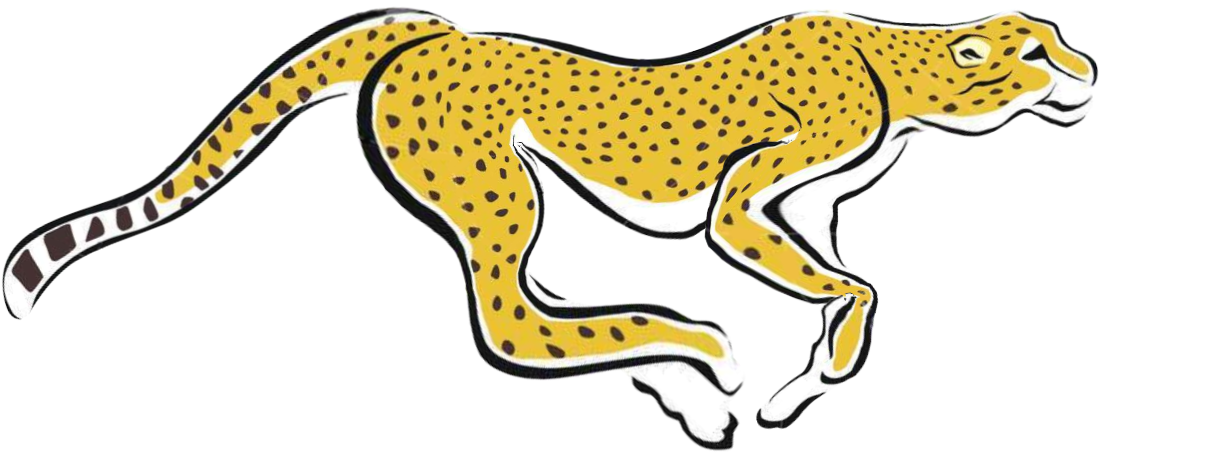
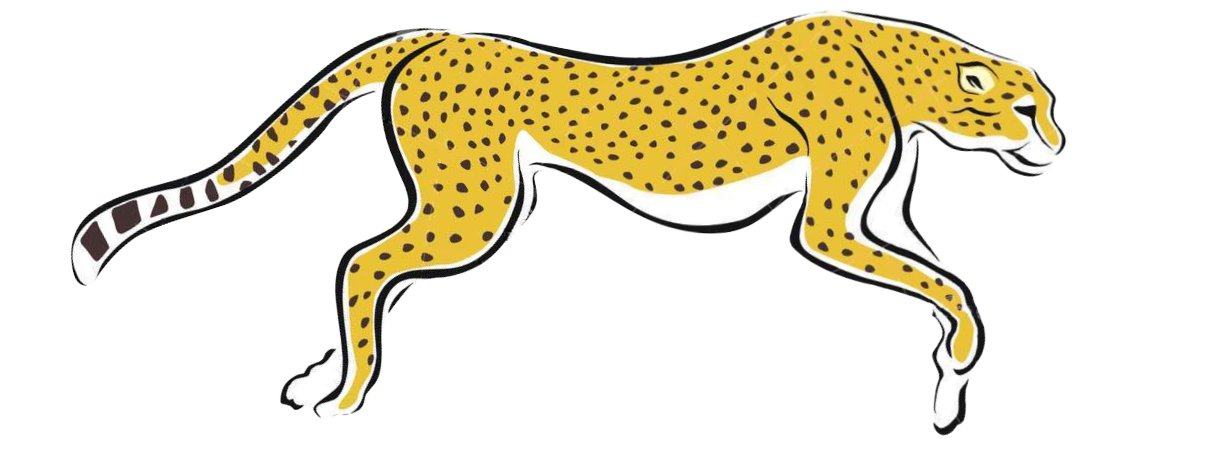
Constant animation
with rotating background and running cheetah in foreground

Changed region(s): [[0.0, 0.0, 0.9189, 1.0]]

diff --git a/src/main/webapp/js/script.js b/src/main/webapp/js/script.js
@@ -1,8 +1,8 @@
-Cheetah = function(name, imageSources) {
-  this.name = name;
+Cheetah = function(imageSources) {
   this.image = new Image();
   this.imagePos = 0;
   this.image.src = imageSources[this.imagePos];
+  this.imageSources = imageSources;
   this.stepSize = 100;
   this.height = 250;  // Cheetah size
   this.width = this.image.width / this.image.height * this.height
@@ -11,7 +11,11 @@ Cheetah = function(name, imageSources) {
   this.distance = this.posX;
   this.lastkey;
 
-  this.run = function(evt) {
+  window.onkeypress = this.run.bind(this);
+}
+
+Cheetah.prototype = {
+  run : function(evt) {
     // Move Cheetah on screen
     if (this.posX + this.stepSize <= CONSTANT_RUN || this.distance >= FINAL_SPURT) {
       this.posX += this.stepSize;
@@ -22,20 +26,18 @@ Cheetah = function(name, imageSources) {
     this.lastkey = evt.key;
 
     // Rotate images
-    if (this.imagePos < imageSources.length - 1) {
+    if (this.imagePos < this.imageSources.length - 1) {
       this.imagePos += 1;
     } else {
       this.imagePos = 0;
     }
-    this.image.src = imageSources[this.imagePos];
+    this.image.src = this.imageSources[this.imagePos];
 
     // End the game
     if (this.posX + this.width > CANVAS_WIDTH) {
       stopGame();
     }
   }
-
-  window.onkeypress = this.run.bind(this);
 }
 
 Canvas = function(canvasElement, bgImage, cheetah) {
@@ -47,15 +49,19 @@ Canvas = function(canvasElement, bgImage, cheetah) {
   this.height = this.elem.height;
   this.cheetah = cheetah;
 
-  this.bubble = function() {
+  window.focus();
+}
+
+Canvas.prototype = {
+  bubble: function(text) {
     this.ctx.font = "30pt Arial";
     this.ctx.fillStyle = "#f7f7f4";
 //    if (cheetah.lastkey)
 //      this.ctx.fillText(cheetah.lastkey, this.cheetah.posX + 30, this.cheetah.posY - 30);
-    this.ctx.fillText(cheetah.posX + " " + cheetah.distance, this.cheetah.posX + 30, this.cheetah.posY - 30);
-  }
+    this.ctx.fillText(text, this.cheetah.posX + 30, this.cheetah.posY - 30);
+  },
 
-  this.draw = function() {
+  draw: function() {
     this.ctx.clearRect(0, 0, this.width, this.height); // Clear Canvas
 
     if (this.cheetah.distance < CONSTANT_RUN) {
@@ -66,24 +72,78 @@ Canvas = function(canvasElement, bgImage, cheetah) {
       this.ctx.drawImage(this.background, this.background.width - this.width - CONSTANT_RUN, 0, this.width, this.height, 0, 0, this.width, this.height)
     }
 
-    this.bubble();
+    this.bubble(cheetah.posX + " " + cheetah.distance);
     this.ctx.drawImage(this.cheetah.image, this.cheetah.posX, this.cheetah.posY, this.cheetah.width, this.cheetah.height);
   }
+}
 
-  window.focus();
-  this.animate = setInterval(this.draw.bind(this), 30);
+RunningCheetah = function(imageSources) {
+  Cheetah.call(this, imageSources);
+  this.posX = 400;
+}
+
+RunningCheetah.prototype = Object.create(Cheetah.prototype);
+RunningCheetah.prototype.run = function() {
+  // Rotate images
+  if (this.imagePos < this.imageSources.length - 1) {
+    this.imagePos += 1;
+  } else {
+    this.imagePos = 0;
+  }
+  this.image.src = this.imageSources[this.imagePos];
+}
+
+
+RotatingCanvas = function(canvasElement, bgImage, cheetah) {
+  Canvas.call(this, canvasElement, bgImage, cheetah);
+  this.imageX = 0;
+  this.stepSize = 10;
+}
+
+RotatingCanvas.prototype = Object.create(Canvas.prototype);
+RotatingCanvas.prototype.draw = function() {
+    this.ctx.clearRect(0, 0, this.width, this.height); // Clear Canvas
+
+
+    var rightMargin = this.width - (this.background.width - this.imageX);
+
+    this.ctx.drawImage(this.background,
+                       this.imageX, 0, this.width, this.height, // image coordinates
+                       0, 0, this.width, this.height);  // canvas coordinates
+
+    if (rightMargin > 0) {
+      this.ctx.drawImage(this.background,
+              0, 0, rightMargin, this.height, // image coordinates
+              this.width - rightMargin, 0, rightMargin, this.height);
+    }
+
+    this.imageX = this.imageX < this.background.width ? this.imageX + this.stepSize : 0;
+
+
+    this.ctx.drawImage(this.cheetah.image, this.cheetah.posX, this.cheetah.posY, this.cheetah.width, this.cheetah.height);
+    this.bubble(this.imageX + " " + rightMargin);
+}
+
+
+cheetah = new RunningCheetah(["images/cheetah_run01.png", "images/cheetah_run02.png",
+                       "images/cheetah_run03.png", "images/cheetah_run02.png"]);
+canvas = new RotatingCanvas("cheetah-track", "images/steppe_v2.png", cheetah);
+
+var startGame = function(cheetahSpeed, canvasSpeed) {
+  cheetah.animate = setInterval(cheetah.run.bind(cheetah), cheetahSpeed);
+  canvas.animate = setInterval(canvas.draw.bind(canvas), canvasSpeed);
 }
 
 var stopGame = function() {
   window.onkeypress = null;
   clearInterval(canvas.animate);
+  clearInterval(cheetah.animate); // Compatibility issue with Cheetah
 }
 
-
-cheetah = new Cheetah("Gepardec", ["images/cheetah_run01.png", "images/cheetah_run02.png"]);
-canvas = new Canvas("cheetah-track", "images/steppe.png", cheetah);
+startGame(333, 50);
 
 var CONSTANT_RUN = 400;
 var FINAL_SPURT = canvas.background.width - canvas.width;
 var CANVAS_WIDTH = canvas.width;
 var TOTAL_DISTANCE = canvas.background.width;
+
